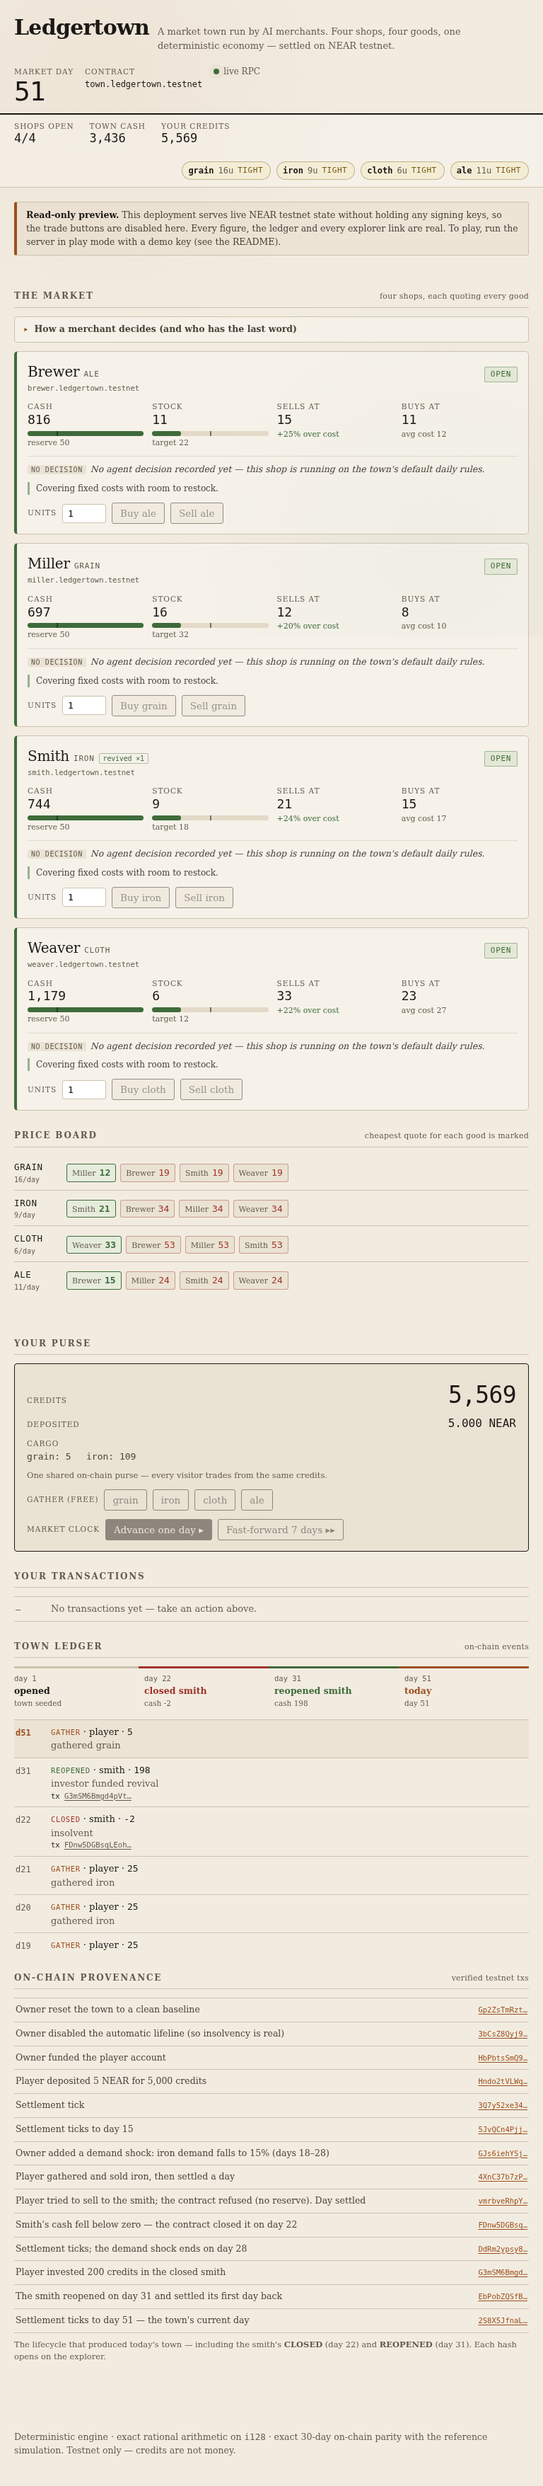
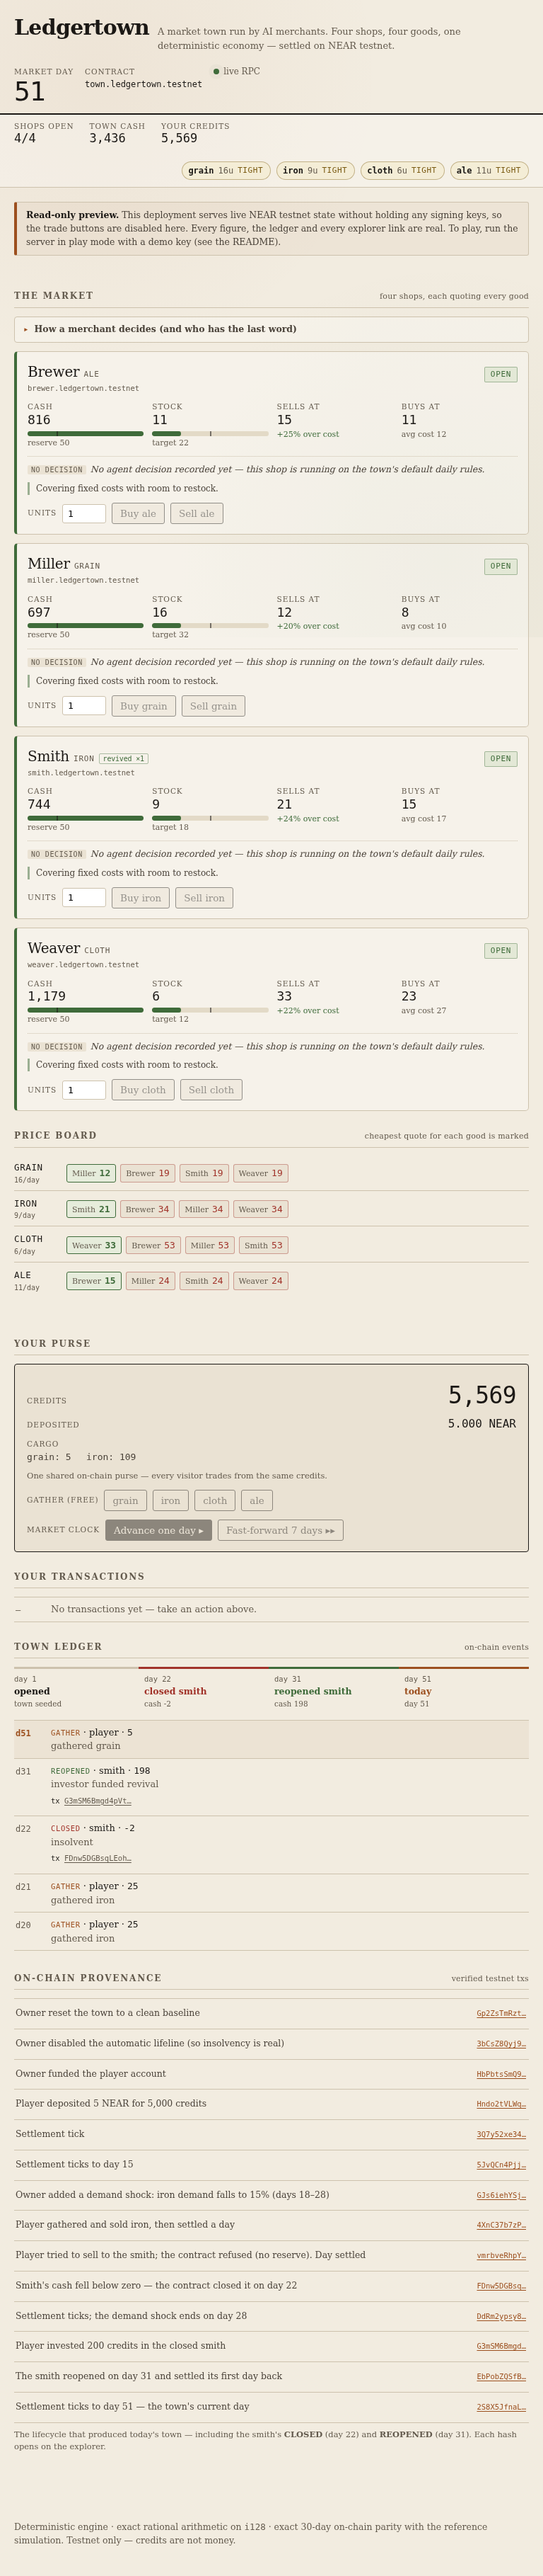
UI: give explorer links a 24px+ hit area
The transaction links (town ledger, provenance) were 12px tall, below the
WCAG 2.2 AA minimum target size (2.5.8). Padding them to ~24px clears it and
makes them easier to tap. No visual or content change.

Verified: 0 sub-24px interactive targets, 0 overflow, 0 console errors,
0 AA contrast failures at 320/390/768/1024/1440 px.

diff --git a/web/index.html b/web/index.html
@@ -188,7 +188,7 @@
   .ev .kind{font-family:var(--mono);font-size:10.5px;text-transform:uppercase;letter-spacing:.06em;color:var(--copper)}
   .ev .kind.close{color:var(--red)} .ev .kind.reopen{color:var(--green)}
   .ev .tx{font-family:var(--mono);font-size:10.5px}
-  .ev .tx a{color:var(--muted)}
+  .ev .tx a{color:var(--muted);display:inline-block;padding:6px 0}
   .ev.today{background:rgba(156,79,30,.06)} .ev.today .day{color:var(--copper);font-weight:700}
   .muted{color:var(--muted)}
   .skeleton{height:1.1em;border-radius:2px;background:linear-gradient(90deg,var(--rule),var(--paper2),var(--rule));
@@ -202,7 +202,7 @@
     border-bottom:1px solid var(--rule);align-items:baseline;font-size:12.5px}
   .prow .lbl{color:var(--ink2)}
   .prow .h{font-family:var(--mono);font-size:10.5px}
-  .prow .h a{color:var(--copper)}
+  .prow .h a{color:var(--copper);display:inline-block;padding:6px 2px}
 
   .toast{position:fixed;left:50%;transform:translateX(-50%);bottom:20px;background:var(--ink);
     color:var(--paper);padding:11px 18px;border-radius:4px;font-size:13.5px;max-width:88vw;
